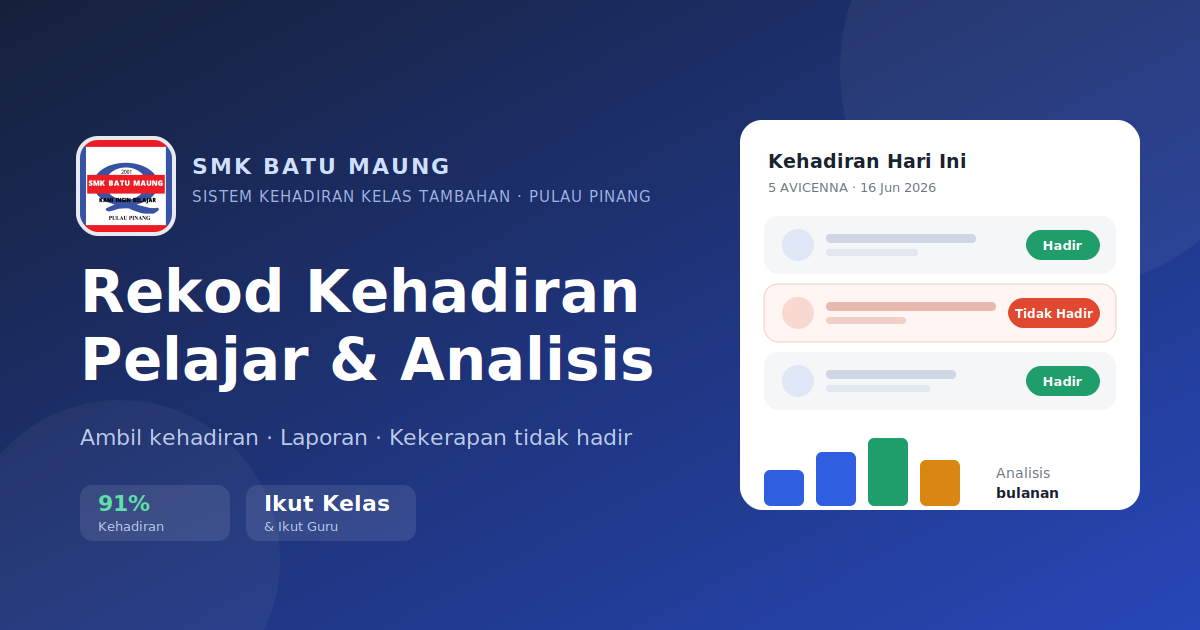
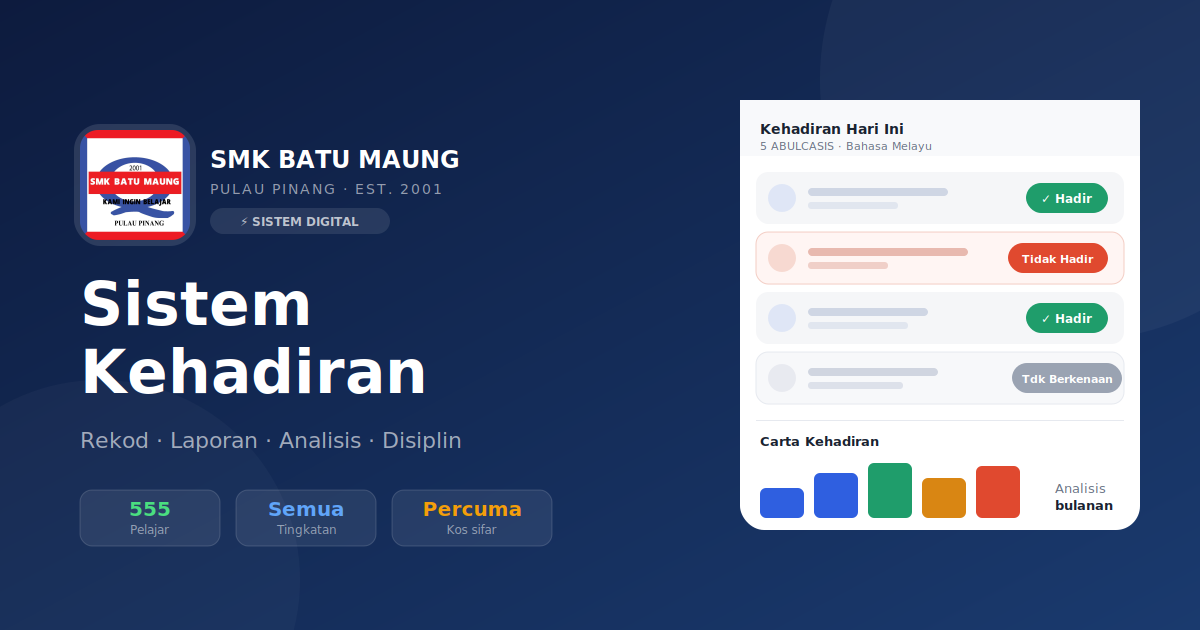
Update title and meta tags for consistency with the system name; modify layout styles for improved user experience

diff --git a/index.html b/index.html
@@ -3,14 +3,14 @@
 <head>
 <meta charset="UTF-8">
 <meta name="viewport" content="width=device-width, initial-scale=1.0">
-<title>Sistem Kehadiran Kelas Tambahan</title>
-<meta property="og:title" content="Sistem Kehadiran Kelas Tambahan">
+<title>Sistem Kehadiran SMK Batu Maung</title>
+<meta property="og:title" content="Sistem Kehadiran SMK Batu Maung">
 <meta property="og:description" content="SMK Batu Maung — rekod kehadiran pelajar, laporan & analisis kekerapan tidak hadir.">
 <meta property="og:image" content="https://kehadiran-f2u.pages.dev/og.png">
 <meta property="og:type" content="website">
 <meta property="og:url" content="https://kehadiran-f2u.pages.dev/">
 <meta name="twitter:card" content="summary_large_image">
-<meta name="twitter:title" content="Sistem Kehadiran Kelas Tambahan">
+<meta name="twitter:title" content="Sistem Kehadiran SMK Batu Maung">
 <meta name="twitter:image" content="https://kehadiran-f2u.pages.dev/og.png">
 
 <link rel="preconnect" href="https://fonts.googleapis.com">
@@ -24,14 +24,22 @@
   .wrap{max-width:780px;margin:0 auto;padding:0 16px 120px}
   .hidden{display:none!important}
 
-  .auth-screen{min-height:100vh;display:grid;place-items:center;padding:20px}
-  .auth-card{width:100%;max-width:380px;background:var(--surface);border:1px solid var(--line);border-radius:18px;padding:28px;box-shadow:var(--shadow)}
-  .auth-card .logo{width:48px;height:48px;border-radius:12px;background:var(--brand);display:grid;place-items:center;color:#fff;font-weight:800;margin-bottom:16px}
-  .auth-card h2{margin:0 0 4px;font-size:20px}.auth-card p{margin:0 0 20px;font-size:13px;color:var(--muted)}
-  .auth-card label{display:block;font-size:12px;font-weight:600;color:var(--muted);margin:12px 0 5px}
-  .auth-card input{width:100%;padding:12px;border:1px solid var(--line);border-radius:10px;font:inherit;font-size:15px}
-  .auth-card input:focus{outline:2px solid var(--brand);outline-offset:-1px}
+  .auth-screen{min-height:100vh;display:flex;flex-direction:column;background:linear-gradient(145deg,#0d1b3e 0%,#1a3a6e 50%,#0d1b3e 100%)}
+  .auth-hero{flex:1;display:flex;flex-direction:column;align-items:center;justify-content:center;padding:40px 20px 0}
+  .auth-logo-wrap{width:110px;height:110px;border-radius:22px;background:#fff;display:grid;place-items:center;padding:6px;box-shadow:0 8px 32px rgba(0,0,0,.3);margin-bottom:20px;overflow:hidden}
+  .auth-logo-wrap img{width:100%;height:100%;object-fit:contain}
+  .auth-school{color:#fff;font-size:22px;font-weight:800;letter-spacing:.5px;text-align:center;margin-bottom:4px}
+  .auth-sub{color:rgba(255,255,255,.6);font-size:13px;text-align:center;letter-spacing:1px;text-transform:uppercase;margin-bottom:8px}
+  .auth-badge{display:inline-flex;align-items:center;gap:6px;background:rgba(255,255,255,.1);border:1px solid rgba(255,255,255,.2);border-radius:999px;padding:5px 14px;color:rgba(255,255,255,.8);font-size:12px;font-weight:600;letter-spacing:.5px;margin-bottom:32px}
+  .auth-card{background:#fff;border-radius:28px 28px 0 0;padding:32px 24px 40px;box-shadow:0 -8px 40px rgba(0,0,0,.2);width:100%;max-width:500px;margin:0 auto}
+  .auth-card-title{font-size:18px;font-weight:800;color:var(--ink);margin:0 0 4px}
+  .auth-card-sub{font-size:13px;color:var(--muted);margin:0 0 24px}
+  .auth-card label{display:block;font-size:12px;font-weight:700;color:var(--muted);margin:0 0 6px;letter-spacing:.5px;text-transform:uppercase}
+  .auth-input-wrap{position:relative;margin-bottom:20px}
+  .auth-input-wrap input{width:100%;padding:15px 16px;border:2px solid var(--line);border-radius:14px;font:inherit;font-size:16px;background:var(--bg);color:var(--ink);transition:border-color .15s}
+  .auth-input-wrap input:focus{outline:none;border-color:var(--brand);background:#fff}
   .auth-note{font-size:12px;color:var(--muted);margin-top:14px;text-align:center;line-height:1.5}
+  .auth-screen .logo{display:none}
 
   header.app{position:sticky;top:0;z-index:20;background:var(--surface);border-bottom:1px solid var(--line)}
   .head-inner{max-width:780px;margin:0 auto;padding:12px 16px;display:flex;align-items:center;gap:12px}
@@ -125,7 +133,7 @@
   <div class="auth-card">
     <img class="logo" src="logo.jpg" alt="SMK Batu Maung">
     <h2>Log Masuk Guru</h2>
-    <p>Sistem Kehadiran Kelas Tambahan · SMK Batu Maung</p>
+    <p>Sistem Kehadiran SMK Batu Maung · SMK Batu Maung</p>
     <label>No. Kad Pengenalan</label>
     <input type="text" id="lg-ic" inputmode="numeric" placeholder="cth: 900101071234" autocomplete="username">
     <button class="btn btn-primary" id="lg-btn" style="width:100%;margin-top:18px">Log Masuk</button>
@@ -137,7 +145,7 @@
 <header class="app">
   <div class="head-inner">
     <img class="logo" src="logo.jpg" alt="SMK Batu Maung">
-    <div><h1>Kehadiran Kelas Tambahan</h1><p id="who-am-i">—</p></div>
+    <div><h1 style="font-size:16px">Sistem Kehadiran</h1><p id="who-am-i" style="font-size:11px;color:var(--muted)">—</p></div>
     <div class="sp"></div>
     <button class="hbtn" id="btn-logout">Log Keluar</button>
   </div>
@@ -381,7 +389,7 @@ function fillKelasDropdown(){
   const cls=classesForTeacher();
   let html=`<optgroup label="Kelas Tingkatan">`+cls.map(c=>`<option value="${esc(c)}">${esc(c)}</option>`).join('')+`</optgroup>`;
   const grps=state.groups||[];
-  if(grps.length) html+=`<optgroup label="Kumpulan Kelas Tambahan">`+grps.map(g=>`<option value="grp:${g.id}">${esc(g.name)}${g.subject?' — '+esc(g.subject):''}</option>`).join('')+`</optgroup>`;
+  if(grps.length) html+=`<optgroup label="Kumpulan Subjek">`+grps.map(g=>`<option value="grp:${g.id}">${esc(g.name)}${g.subject?' — '+esc(g.subject):''}</option>`).join('')+`</optgroup>`;
   $('#kelas').innerHTML=html||'<option value="">(Tiada)</option>';
   if(state.teacher?.class_name&&cls.includes(state.teacher.class_name))$('#kelas').value=state.teacher.class_name;
 }
